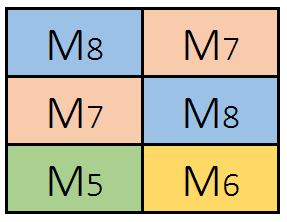
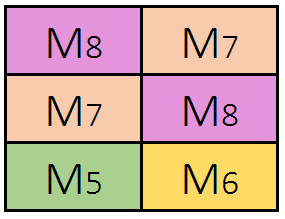
inicio do cc3

diff --git a/final target/final target.tex b/final target/final target.tex
@@ -489,7 +489,13 @@ Relembrando a estrutura da Figura \ref{fig:common centroid}(b), a sua primeira i
 
 \subsubsection{Estrutura \textit{common centroid} \#3}
 
-
+\begin{figure}[H]
+	\centering
+	\includegraphics[keepaspectratio=true, scale=0.30]{teoricas/layout/cc3_1}
+	\vspace{-0.5em}
+	\caption{Esquema inicial do \textit{layout}.}
+	\vspace{-0.8em} 
+\end{figure}
 
 \subsubsection{Estrutura \textit{common centroid} \#4}
 
